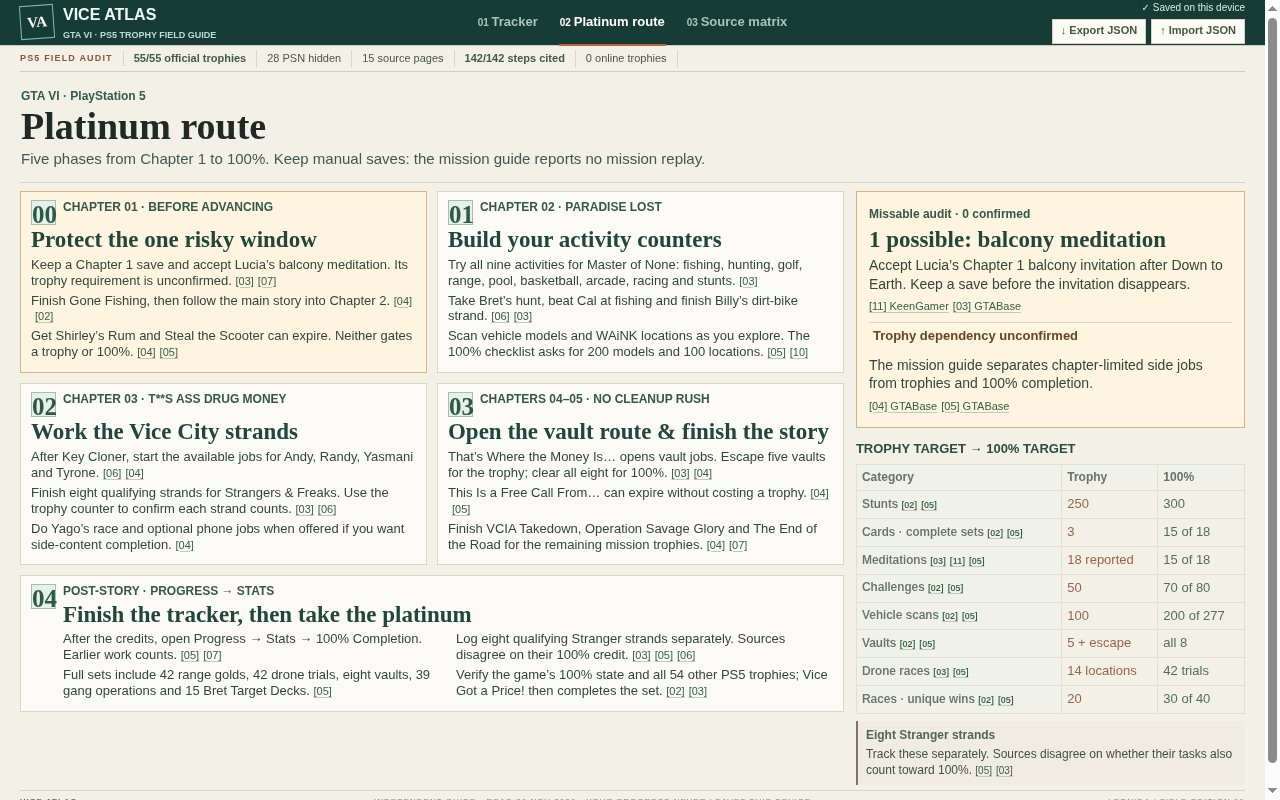
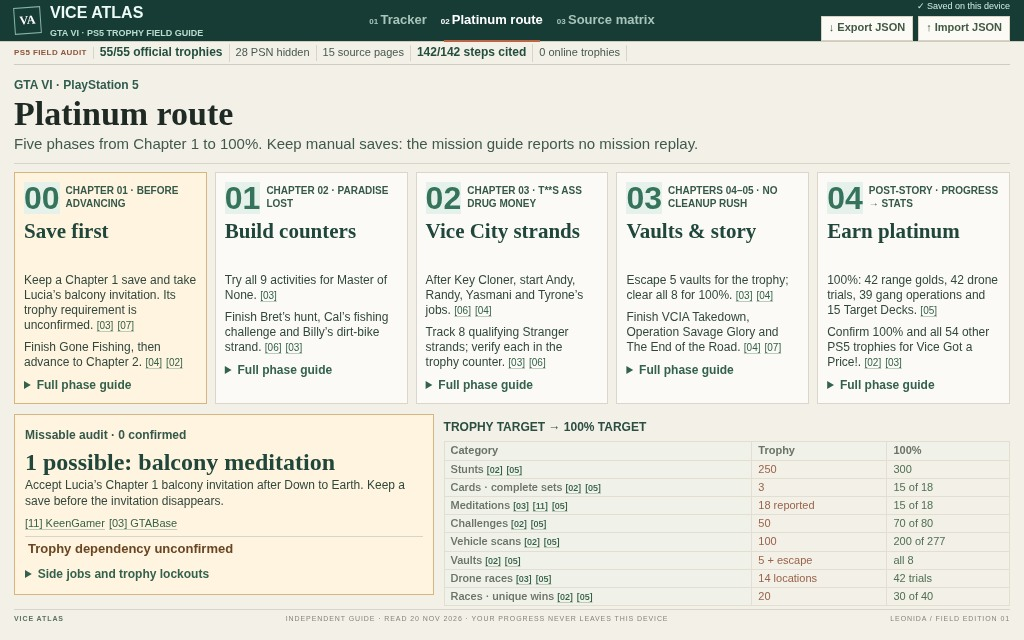
Make route phases and source comparisons readable in the dossier

Changed region(s): [[0.0, 0.0, 1.0, 0.9688], [0.0312, 0.9375, 0.0625, 0.9688]]

diff --git a/app/app.js b/app/app.js
@@ -410,23 +410,50 @@ function viewIntro(kicker, title, subtitle) {
   header.append(el('p','eyebrow',kicker),el('h1','',title),el('p','',subtitle));
   return header;
 }
+function evidenceMetrics(items) {
+  const strip = el('section', 'evidence-metrics');
+  for (const [number, label] of items) {
+    const tile = el('div');
+    tile.append(el('b', '', number), el('span', '', label));
+    strip.append(tile);
+  }
+  return strip;
+}
 function renderRoadmap() {
   const view = $('#roadmap-view');
   view.replaceChildren(viewIntro('GTA VI · PlayStation 5', 'Platinum route', 'Five phases from Chapter 1 to 100%. Keep manual saves: the mission guide reports no mission replay.'));
   const layout = el('div','route-layout');
   const phases = el('div','phases');
-  for (const phase of data.roadmap) {
+  const phaseTitles = ['Save first', 'Build counters', 'Vice City strands', 'Vaults & story', 'Earn platinum'];
+  const highlights = [
+    ['Keep a Chapter 1 save and take Lucia’s balcony invitation. Its trophy requirement is unconfirmed.', 'Finish Gone Fishing, then advance to Chapter 2.'],
+    ['Try all 9 activities for Master of None.', 'Finish Bret’s hunt, Cal’s fishing challenge and Billy’s dirt-bike strand.'],
+    ['After Key Cloner, start Andy, Randy, Yasmani and Tyrone’s jobs.', 'Track 8 qualifying Stranger strands; verify each in the trophy counter.'],
+    ['Escape 5 vaults for the trophy; clear all 8 for 100%.', 'Finish VCIA Takedown, Operation Savage Glory and The End of the Road.'],
+    ['100%: 42 range golds, 42 drone trials, 39 gang operations and 15 Target Decks.', 'Confirm 100% and all 54 other PS5 trophies for Vice Got a Price!.'],
+  ];
+  for (const [index, phase] of data.roadmap.entries()) {
     const card = el('article',`phase phase-${phase.stage}`);
     const marker = el('span','phase-marker',phase.stage);
     const copy = el('div');
     const window = state.hideStory ? phase.window.split(' · ')[0] : phase.window;
-    copy.append(el('p','eyebrow',window),el('h2','',phase.title));
-    for (const step of phase.steps) {
+    copy.append(el('p','eyebrow',window),el('h2','',phaseTitles[index]));
+    const visibleSteps = index === 3 ? [0, 2] : index === 4 ? [1, 3] : [0, 1];
+    const full = el('details', 'phase-full');
+    full.append(el('summary', '', 'Full phase guide'));
+    for (const [stepIndex, step] of phase.steps.entries()) {
       if (state.hideStory && step.storySpoiler) continue;
       const p=el('p','phase-copy',step.text);
       p.append(document.createTextNode(' '),cite(step.sources,true));
-      copy.append(p);
+      if (visibleSteps.includes(stepIndex)) {
+        p.firstChild.textContent = highlights[index][visibleSteps.indexOf(stepIndex)] + ' ';
+        copy.append(p);
+      }
+      const complete = el('p', 'phase-copy', step.text);
+      complete.append(document.createTextNode(' '), cite(step.sources, true));
+      full.append(complete);
     }
+    copy.append(full);
     card.append(marker,copy);
     phases.append(card);
   }
@@ -438,10 +465,12 @@ function renderRoadmap() {
   audit.append(el('p','',state.hideStory ? 'Accept the Chapter 1 invitation and keep a manual save. Sources report that the invitation disappears.' : 'Accept Lucia’s Chapter 1 balcony invitation after Down to Earth. Keep a save before the invitation disappears.'));
   audit.append(cite(['keen','gtabase-list']));
   audit.append(el('b','audit-line','Trophy dependency unconfirmed'));
-  audit.append(el('p','','The mission guide separates chapter-limited side jobs from trophies and 100% completion.'));
-  audit.append(cite(['gtabase-missions','gtabase-100']));
+  const auditDetails = el('details', 'phase-full');
+  auditDetails.append(el('summary', '', 'Side jobs and trophy lockouts'));
+  auditDetails.append(el('p','','The mission guide separates chapter-limited side jobs from trophies and 100% completion.'));
+  auditDetails.append(cite(['gtabase-missions','gtabase-100']));
+  audit.append(auditDetails);
   sidebar.append(audit,thresholdTable());
-  sidebar.append(callout('Eight Stranger strands', 'Track these separately. Sources disagree on whether their tasks also count toward 100%.', ['gtabase-100','gtabase-list'], 'dispute'));
   layout.append(sidebar);
   view.append(layout);
 }
@@ -449,7 +478,13 @@ function renderSources() {
   const view=$('#sources-view');
   const checked = new Date(`${data.audit.lastChecked}T12:00:00Z`);
   const checkedLabel = new Intl.DateTimeFormat('en-GB', {dateStyle:'long',timeZone:'UTC'}).format(checked);
-  view.replaceChildren(viewIntro(`Evidence checked ${checkedLabel}`,'Source matrix', 'Exophase and GTABase agree on the 55 official PlayStation names, descriptions and grades.'));
+  view.replaceChildren(viewIntro(`Evidence checked ${checkedLabel}`,'Source matrix', 'Exophase and GTABase agree on all 55 official names, descriptions and grades.'));
+  view.append(evidenceMetrics([
+    ['55/55', 'Trophies sourced'],
+    [String(data.sources.length), 'Source pages'],
+    [String(trophies.reduce((sum, trophy) => sum + trophy.steps.length, 0)), 'Cited steps'],
+    [String(data.disputes.length), 'Evidence notes'],
+  ]));
   const layout=el('div','sources-layout');
   const ledger=el('section','source-ledger');
   const table=el('table','source-table');
@@ -464,8 +499,14 @@ function renderSources() {
   const body=el('tbody');
   for(const source of data.sources) {
     const row=el('tr');const identity=el('td');
-    identity.append(sourceLink(source.id),el('p','',source.title));
-    row.append(identity,el('td','',source.role),el('td','',String(source.guidesCiting)),el('td','',String(source.stepsCiting)));
+    identity.append(sourceLink(source.id));
+    const coverage = el('td', 'source-coverage');
+    const meter = el('progress');
+    meter.max = trophies.length;
+    meter.value = source.guidesCiting;
+    meter.setAttribute('aria-label', `${source.name}: ${source.guidesCiting} guides`);
+    coverage.append(el('span', '', String(source.guidesCiting)), meter);
+    row.append(identity,el('td','',source.role),coverage,el('td','',String(source.stepsCiting)));
     body.append(row);
   }
   table.append(body);ledger.append(table);
@@ -474,18 +515,23 @@ function renderSources() {
   notes.append(el('h2','','Notes & source disputes'));
   const featuredFirst = [...data.disputes].sort((a, b) => Number(Boolean(b.comparison)) - Number(Boolean(a.comparison)));
   for (const note of featuredFirst) {
-    const card=el('article','dispute-note');
+    const card=el('article',`dispute-note${note.comparison ? ' featured-dispute' : ''}`);
     card.append(el('p','eyebrow',note.status),el('h3','',note.title));
     if (note.comparison) {
       const split = el('div', 'dispute-comparison');
       for (const [count, label, ids] of note.comparison) {
         const side = el('div');
-        side.append(el('b', '', count), el('span', '', label), cite(ids, true));
+        const [number, ...unit] = count.split(' ');
+        side.append(el('b', '', number), el('span', '', unit.join(' ')), el('strong', '', label), cite(ids));
         split.append(side);
       }
       card.append(split);
     }
-    card.append(el('p','',note.text),cite(note.sources));
+    if (note.comparison) {
+      const details = el('details', 'dispute-full');
+      details.append(el('summary', '', 'Read evidence & decision'), el('p', '', note.text), cite(note.sources));
+      card.append(details);
+    } else card.append(el('p','',note.text),cite(note.sources));
     notes.append(card);
   }
   layout.append(notes);view.append(layout);

diff --git a/app/style.css b/app/style.css
@@ -374,3 +374,70 @@ body[data-view="roadmap"] .phase h2 { font-size: 23px; }
 @media (max-width: 760px) {
   #route-progress { grid-template-columns: repeat(2, minmax(0, 1fr)); }
 }
+
+/* Overview pages keep their reading order when the dossier reduces them. */
+.evidence-metrics { display:grid; grid-template-columns:repeat(4,1fr); gap:8px; margin:8px 0; }
+.evidence-metrics > div { padding:8px 12px; display:flex; align-items:baseline; gap:10px; background:#e1ece5; border:1px solid #b7cdbf; }
+.evidence-metrics b { font-size:34px; line-height:1.1; color:#1b4e3a; }
+.evidence-metrics span { font-size:13px; color:#35594a; font-weight:700; }
+.source-coverage progress { display:block; height:5px; width:100%; min-width:42px; margin-top:3px; }
+.source-table tbody tr:nth-child(even) { background:#edf2ec; }
+.dispute-full summary,.phase-full summary { cursor:pointer; color:#34614e; font-size:12px; font-weight:700; }
+.dispute-full p { font-size:13px; line-height:1.4; }
+@media (min-width:901px) {
+  body[data-view="roadmap"] .view-intro,body[data-view="sources"] .view-intro { padding:8px 0; }
+  body[data-view="roadmap"] .view-intro h1,body[data-view="sources"] .view-intro h1 { font-size:34px; }
+  body[data-view="roadmap"] .route-layout { display:block; }
+  body[data-view="roadmap"] .phases { display:grid; grid-template-columns:repeat(5,minmax(0,1fr)); align-items:stretch; gap:8px; }
+  body[data-view="roadmap"] .phase { padding:9px; grid-column:auto; }
+  body[data-view="roadmap"] .phase:last-child > div { display:block; columns:auto; }
+  body[data-view="roadmap"] .phase-marker { float:none; width:auto; height:auto; display:block; border:0; margin:0 0 5px; text-align:left; font:700 36px/1 var(--sans); color:#35745a; }
+  body[data-view="roadmap"] .phase .eyebrow { font-size:10px; min-height:27px; }
+  body[data-view="roadmap"] .phase h2 { min-height:48px; margin:2px 0 8px; font:700 22px/1.05 var(--serif); }
+  body[data-view="roadmap"] .phase-copy { font-size:12px; line-height:1.3; margin-bottom:7px; }
+  body[data-view="roadmap"] .phase-copy .source-link { font-size:10px; }
+  body[data-view="roadmap"] .route-sidebar { display:grid; grid-template-columns:1fr 1.35fr; gap:10px; margin-top:10px; align-items:start; }
+  body[data-view="roadmap"] .route-audit { padding:10px; }
+  body[data-view="roadmap"] .route-audit h2 { font:700 26px/1.1 var(--serif); }
+  body[data-view="roadmap"] .route-audit > p { font-size:12px; }
+  body[data-view="roadmap"] .thresholds th,body[data-view="roadmap"] .thresholds td { padding:3px 6px; font-size:12px; }
+  body[data-view="sources"] .sources-layout { grid-template-columns:1.1fr 1fr; }
+  body[data-view="sources"] .source-ledger { max-height:none; }
+  body[data-view="sources"] .source-table th { font-size:11px; letter-spacing:0; }
+  body[data-view="sources"] .source-table td { padding:5px 7px; font-size:12px; }
+  body[data-view="sources"] .source-table .source-link { font-size:13px; }
+  body[data-view="sources"] .source-table td:first-child { min-width:0; width:32%; }
+  body[data-view="sources"] .disputes { gap:8px; }
+  body[data-view="sources"] .disputes > h2 { font-size:25px; }
+  body[data-view="sources"] .dispute-note h3 { font-size:17px; }
+  body[data-view="sources"] .dispute-comparison { gap:6px; margin:7px 0; }
+  body[data-view="sources"] .dispute-comparison > div { padding:7px; }
+  body[data-view="sources"] .dispute-comparison b { font-size:40px; line-height:1; }
+  body[data-view="sources"] .dispute-comparison span { font-size:12px; }
+  body[data-view="sources"] .dispute-comparison strong { font-size:11px; }
+  body[data-view="sources"] .dispute-comparison .source-link { font-size:10px; }
+}
+@media (min-width:901px) {
+  body[data-view="roadmap"] .phase h2 { min-height:45px; font-size:21px; }
+  body[data-view="roadmap"] .phase .eyebrow { min-height:25px; }
+  body[data-view="roadmap"] .phase-copy { font-size:12px; line-height:1.25; }
+  body[data-view="roadmap"] .phase-marker { font-size:32px; }
+  body[data-view="roadmap"] .route-audit h2 { font-size:24px; }
+  body[data-view="roadmap"] .audit-line { margin:4px 0; padding:3px; }
+  body[data-view="sources"] .source-table td { padding:4px 7px; line-height:1.2; }
+  body[data-view="sources"] .source-table td:nth-child(2) { font-size:11px; white-space:nowrap; }
+  body[data-view="sources"] .source-table .source-link { font-size:12px; white-space:nowrap; }
+  body[data-view="sources"] .source-table th { padding-block:6px; }
+}
+@media (min-width:901px) {
+  body[data-view="roadmap"] .phase-marker { float:left; margin:0 6px 4px 0; }
+  body[data-view="roadmap"] .phase .eyebrow { min-height:36px; padding-top:2px; }
+  body[data-view="roadmap"] .phase h2 { clear:both; }
+  body[data-view="roadmap"] .thresholds th,body[data-view="roadmap"] .thresholds td { padding:2px 6px; font-size:11px; line-height:1.2; }
+  body[data-view="roadmap"] .thresholds caption { padding-bottom:5px; font-size:12px; }
+}
+@media (min-width:901px) {
+  body[data-view="sources"] .source-coverage { white-space:nowrap; }
+  body[data-view="sources"] .source-coverage span { display:inline-block; width:19px; }
+  body[data-view="sources"] .source-coverage progress { display:inline-block; vertical-align:middle; width:42px; height:4px; margin:0; }
+}
